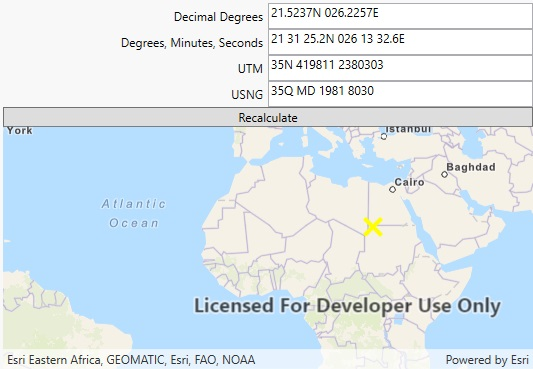
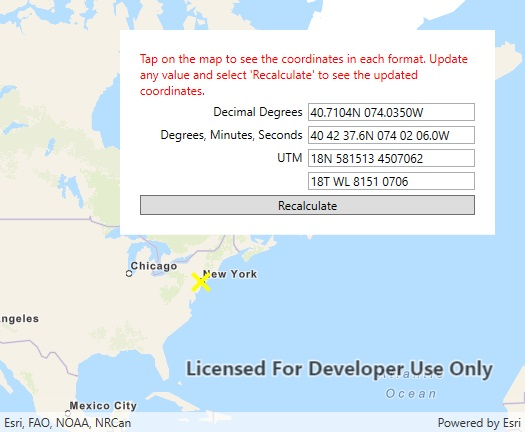
Format coordinates
Improvements:

* Controls were moved to a form to be more consistent with the other samples.
* Added margins between controls.
* Added a help label.
* Improved XAML style to follow new standards.

diff --git a/src/WPF/ArcGISRuntime.WPF.Viewer/Samples/Geometry/FormatCoordinates/FormatCoordinates.xaml b/src/WPF/ArcGISRuntime.WPF.Viewer/Samples/Geometry/FormatCoordinates/FormatCoordinates.xaml
@@ -6,28 +6,66 @@
              xmlns:esri="http://schemas.esri.com/arcgis/runtime/2013"
              mc:Ignorable="d"
              d:DesignHeight="300" d:DesignWidth="300">
+    <UserControl.Resources>
+        <Style TargetType="TextBlock">
+            <Setter Property="Margin" Value="0,5,5,0" />
+        </Style>
+        <Style TargetType="TextBox">
+            <Setter Property="Margin" Value="0,5,0,0" />
+        </Style>
+    </UserControl.Resources>
     <Grid>
-        <Grid.RowDefinitions>
-            <RowDefinition Height="Auto" />
-            <RowDefinition Height="Auto" />
-            <RowDefinition Height="Auto" />
-            <RowDefinition Height="Auto" />
-            <RowDefinition Height="Auto" />
-            <RowDefinition Height="*" />
-        </Grid.RowDefinitions>
-        <Grid.ColumnDefinitions>
-            <ColumnDefinition Width="*" />
-            <ColumnDefinition Width="*" />
-        </Grid.ColumnDefinitions>
-        <Label Grid.Row="0" Grid.Column="0" HorizontalAlignment="Right">Decimal Degrees</Label>
-        <TextBox Grid.Row="0" Grid.Column="1" Tag="Decimal Degrees" x:Name="DecimalDegreesTextField" />
-        <Label Grid.Row="1" Grid.Column="0" HorizontalAlignment="Right">Degrees, Minutes, Seconds</Label>
-        <TextBox Grid.Row="1" Grid.Column="1" Tag="Degrees, Minutes, Seconds" x:Name="DmsTextField" />
-        <Label Grid.Row="2" Grid.Column="0" HorizontalAlignment="Right">UTM</Label>
-        <TextBox Grid.Row="2" Grid.Column="1" Tag="UTM" x:Name="UtmTextField" />
-        <Label Grid.Row="3" Grid.Column="0" HorizontalAlignment="Right">USNG</Label>
-        <TextBox Grid.Row="3" Grid.Column="1" Tag="USNG" x:Name="UsngTextField" />
-        <Button Grid.Row="4" Grid.Column="0" Grid.ColumnSpan="2" Click="RecalculateFields">Recalculate</Button>
-        <esri:MapView Grid.Row="5" Grid.Column="0" Grid.ColumnSpan="2" x:Name="MyMapView" />
+        <esri:MapView x:Name="MyMapView" />
+        <Border BorderBrush="Black" Background="White"
+                HorizontalAlignment="Right" VerticalAlignment="Top"
+                Margin="30" Padding="20" Width="375">
+            <Grid>
+                <Grid.RowDefinitions>
+                    <RowDefinition Height="Auto" />
+                    <RowDefinition Height="Auto" />
+                    <RowDefinition Height="Auto" />
+                    <RowDefinition Height="Auto" />
+                    <RowDefinition Height="Auto" />
+                    <RowDefinition Height="Auto" />
+                </Grid.RowDefinitions>
+                <Grid.ColumnDefinitions>
+                    <ColumnDefinition Width="*" />
+                    <ColumnDefinition Width="*" />
+                </Grid.ColumnDefinitions>
+                <TextBlock
+                    Text="Tap on the map to see the coordinates in each format. Update any value and select 'Recalculate' to see the updated coordinates."
+                    Grid.Row="0" Grid.Column="0" Grid.ColumnSpan="2"
+                    Margin="0,0,0,0"
+                    Foreground="Red"
+                    TextWrapping="Wrap" />
+                <TextBlock Text="Decimal Degrees"
+                           Grid.Row="1" Grid.Column="0"
+                           HorizontalAlignment="Right" />
+                <TextBox x:Name="DecimalDegreesTextField"
+                         Grid.Row="1" Grid.Column="1"
+                         Tag="Decimal Degrees" />
+                <TextBlock Text="Degrees, Minutes, Seconds"
+                           Grid.Row="2" Grid.Column="0"
+                           HorizontalAlignment="Right" />
+                <TextBox x:Name="DmsTextField"
+                         Grid.Row="2" Grid.Column="1"
+                         Tag="Degrees, Minutes, Seconds" />
+                <TextBlock Text="UTM"
+                           Grid.Row="3" Grid.Column="0"
+                           HorizontalAlignment="Right" />
+                <TextBox x:Name="UtmTextField"
+                         Grid.Row="3" Grid.Column="1"
+                         Tag="UTM" />
+                <TextBlock Grid.Row="4" Grid.Column="0"
+                           HorizontalAlignment="Right" />
+                <TextBox x:Name="UsngTextField"
+                         Grid.Row="4" Grid.Column="1"
+                         Tag="USNG" />
+                <Button Content="Recalculate"
+                        Grid.Row="5" Grid.Column="0" Grid.ColumnSpan="2"
+                        Margin="0,5,0,0"
+                        Click="RecalculateFields" />
+            </Grid>
+        </Border>
     </Grid>
 </UserControl>
